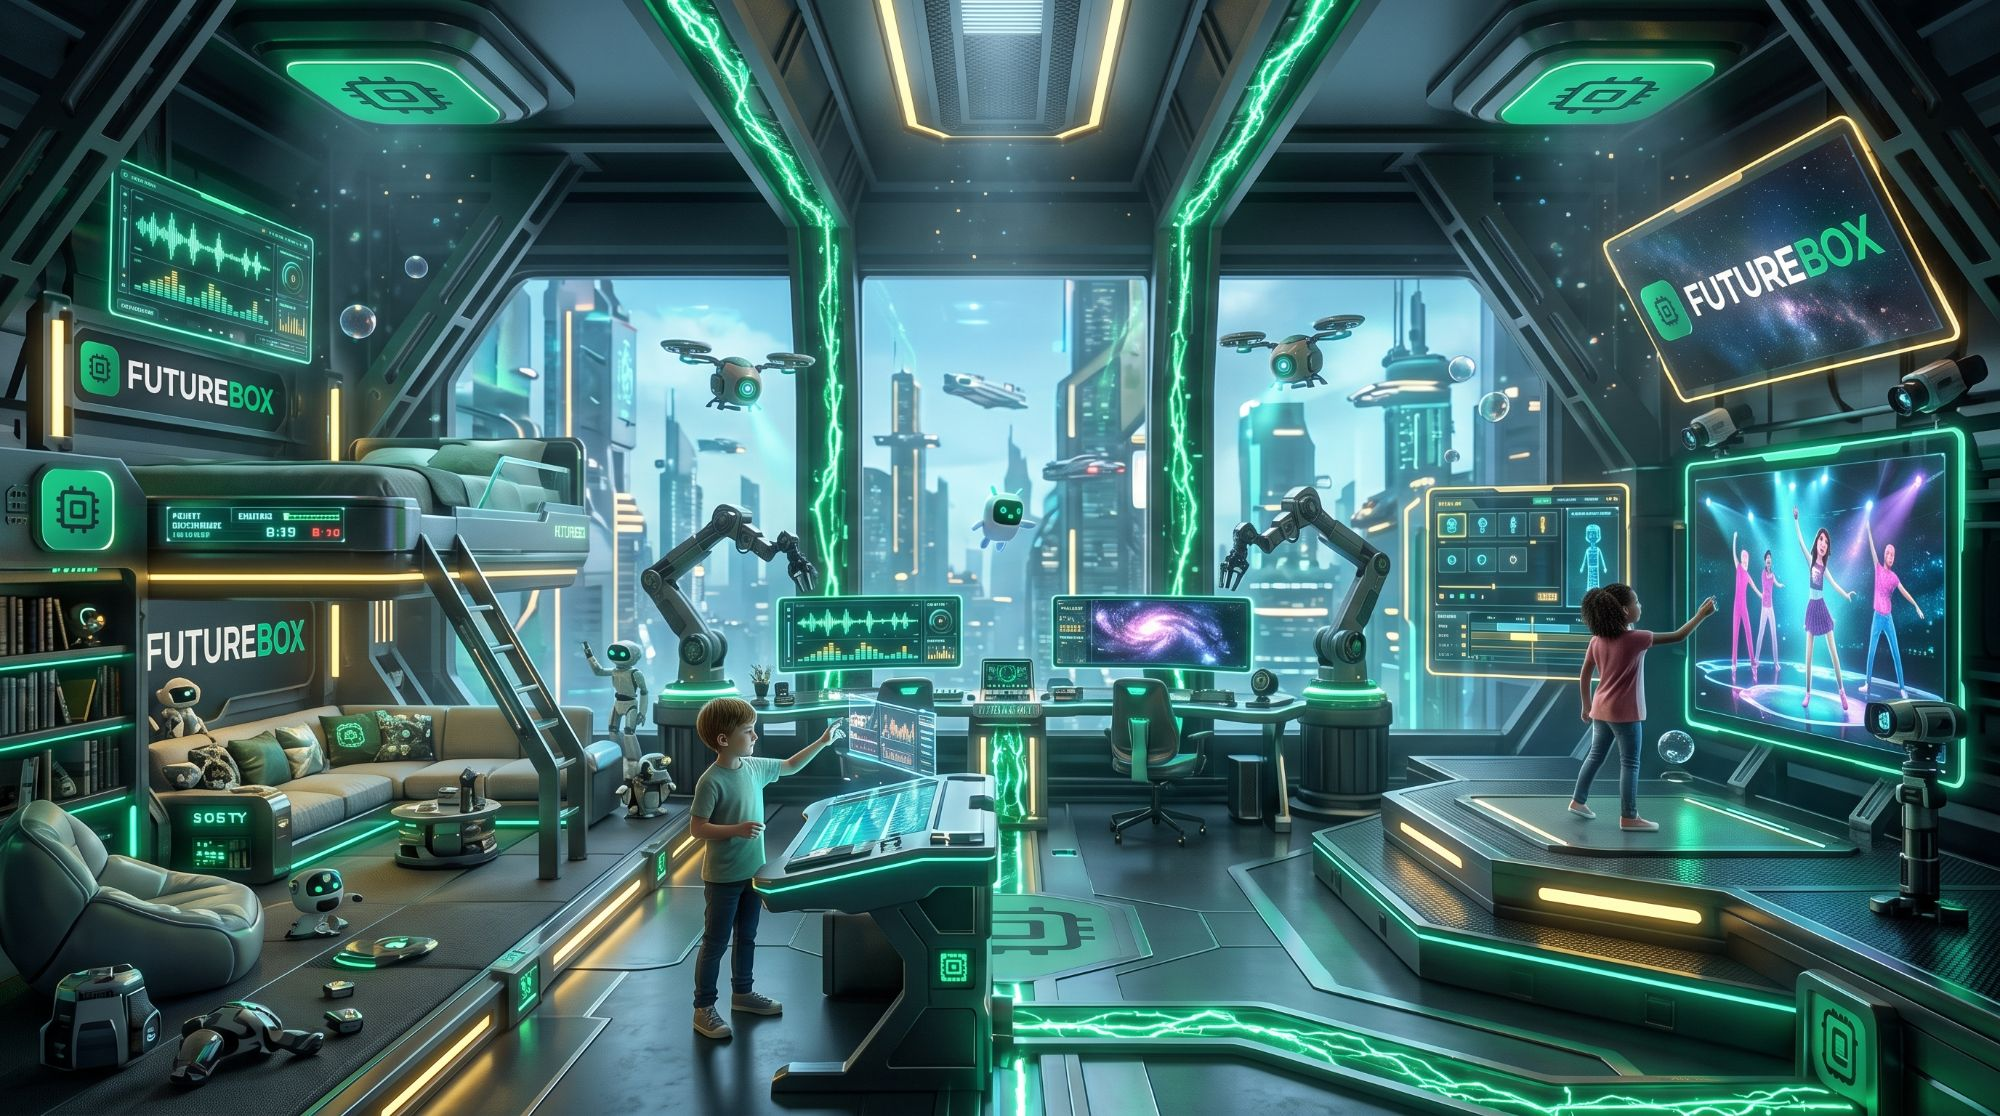
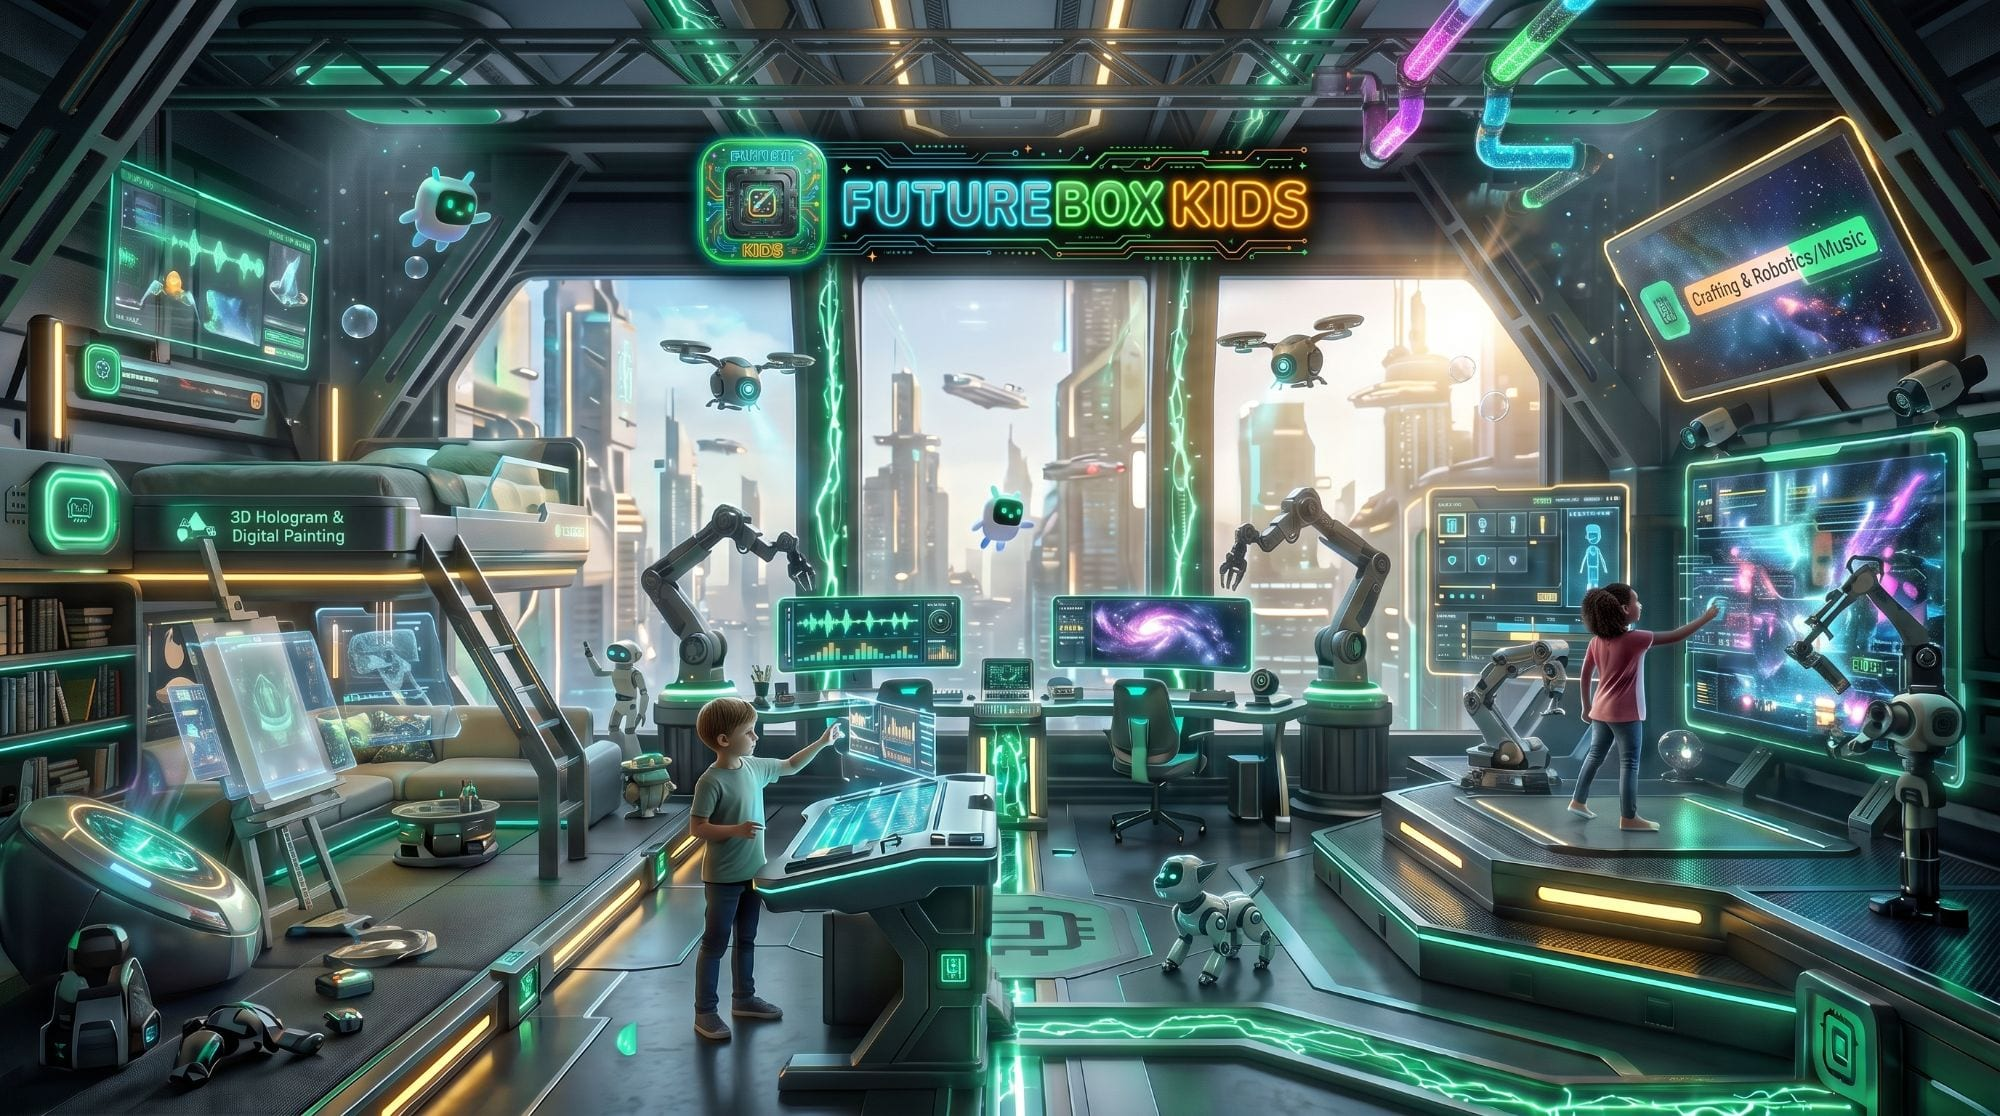
FutureBox Kids: her new room picture behind the kids app
The kids room and the kids door now stand on the room she sent on
19 October, with the FUTUREBOX KIDS sign over the window, under the same
green-black wash so every panel stays readable. The picture as she sent it is
kept in art/kids/room.jpg.

Claude-Session: https://claude.ai/code/session_01HWXhmEX3uprJxXe2fPqzP6

diff --git a/app/globals.css b/app/globals.css
@@ -847,7 +847,10 @@ body:has([data-kidsdoor]) {
      drawn — green lightning, a city through the window, two children at a
      console — is the ground now, under a green-black wash so the glass
      panels on it stay readable (audit/contrast.mjs walks this page). The
-     radial wash is the fallback for the moment before the picture lands. */
+     radial wash is the fallback for the moment before the picture lands.
+     On 19 October she sent the room again, with the FUTUREBOX KIDS sign over
+     the window — "background vir kids app" — and it took the old one's place;
+     the picture as she sent it is in `art/kids/room.jpg`. */
   background-image:
     linear-gradient(180deg, rgba(2, 44, 34, 0.55) 0%, rgba(2, 30, 24, 0.7) 60%, rgba(1, 18, 14, 0.9) 100%),
     url('/kids/room.jpg'),
